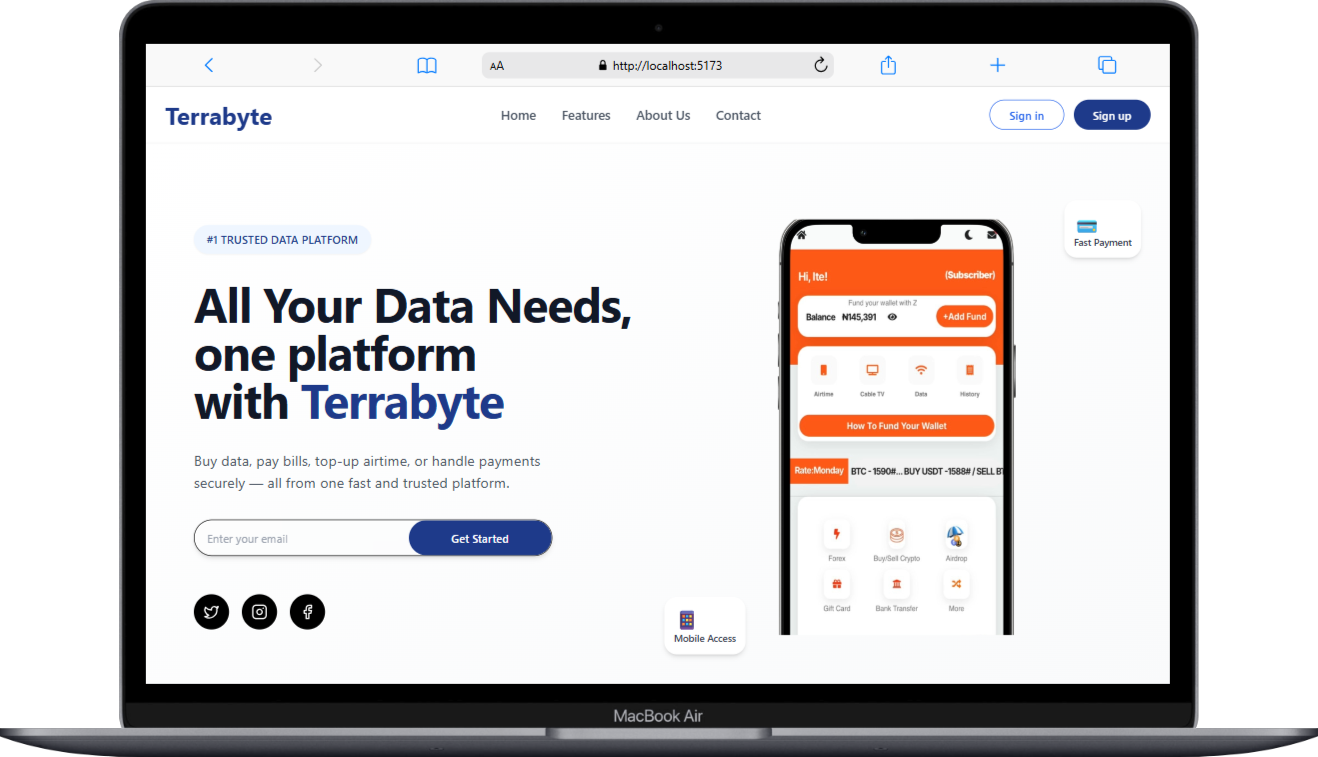
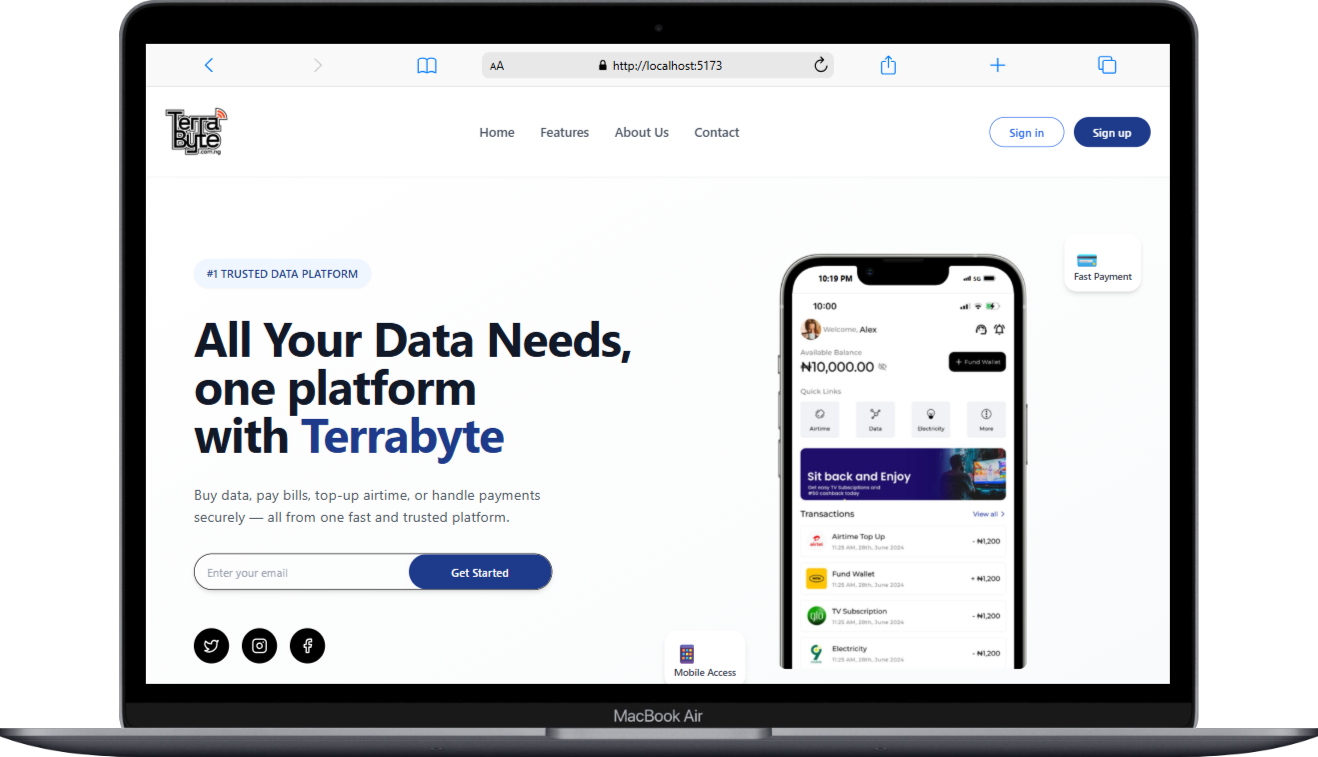
contact section updated

diff --git a/src/Components/Features.tsx b/src/Components/Features.tsx
@@ -1,4 +1,13 @@
-import { ShieldCheck, Clock3, Zap, Wifi, Tv2, Smartphone, Contact, UserCheck } from "lucide-react";
+import {
+  ShieldCheck,
+  Clock3,
+  Zap,
+  Wifi,
+  Tv2,
+  Smartphone,
+  Contact,
+  UserCheck,
+} from "lucide-react";
 import { motion } from "framer-motion";
 
 export default function Features() {
@@ -13,10 +22,12 @@ export default function Features() {
           className="text-center"
         >
           <h2 className="text-4xl md:text-5xl font-semibold text-gray-900 leading-snug">
-            Trusted Data Platform for <span className="text-blue-900">Users & Resellers</span>
+            Trusted Data Platform for{" "}
+            <span className="text-blue-900">Users & Resellers</span>
           </h2>
           <p className="mt-4 text-gray-600 max-w-2xl mx-auto">
-            Our mission is to simplify your everyday bills — securely, fast, and without stress.
+            Our mission is to simplify your everyday bills — securely, fast, and
+            without stress.
           </p>
         </motion.div>
 
@@ -28,12 +39,38 @@ export default function Features() {
           className="grid md:grid-cols-3 gap-8"
         >
           {[
-            { icon: <Wifi />, label: "Data Subscription" },
-            { icon: <Tv2 />, label: "Cable TV Payment" },
-            { icon: <Zap />, label: "Electricity Bills" },
-            { icon: <Smartphone />, label: "Airtime Top-up" },
-            { icon: <UserCheck />, label: "Exam Scratch Cards" },
-            { icon: <Contact />, label: "Instant Customer Support" },
+            {
+              icon: <Wifi />,
+              label: "Data Subscription",
+              description:
+                "Affordable data plans for all networks at lightning speed",
+            },
+            {
+              icon: <Tv2 />,
+              label: "Cable TV Payment",
+              description: "Recharge your GOtv, DStv, or Startimes instantly",
+            },
+            {
+              icon: <Zap />,
+              label: "Electricity Bills",
+              description:
+                "Pay PHCN, IKEDC, and more with instant confirmation",
+            },
+            {
+              icon: <Smartphone />,
+              label: "Airtime Top-up",
+              description: "Recharge any number nationwide — anytime, anywhere",
+            },
+            {
+              icon: <UserCheck />,
+              label: "Exam Scratch Cards",
+              description: "Buy WAEC, NECO, and JAMB cards with ease",
+            },
+            {
+              icon: <Contact />,
+              label: "Instant Customer Support",
+              description: "Get real-time assistance via chat, call, or email",
+            },
           ].map((item, index) => (
             <div
               key={index}
@@ -44,7 +81,7 @@ export default function Features() {
               </div>
               <div>
                 <h4 className="font-semibold text-gray-800">{item.label}</h4>
-                <p className="text-sm text-gray-500 mt-1">Fast, secure & available 24/7</p>
+                <p className="text-sm text-gray-500 mt-1">{item.description}</p>
               </div>
             </div>
           ))}
@@ -56,7 +93,8 @@ export default function Features() {
             <ShieldCheck className="w-6 h-6 text-blue-800 mb-3" />
             <h5 className="font-semibold text-gray-900 mb-2">Privacy First</h5>
             <p className="text-sm text-gray-600">
-              We don’t store your personal details unless you ask us to. Your privacy stays intact.
+              We don’t store your personal details unless you ask us to. Your
+              privacy stays intact.
             </p>
           </div>
 
@@ -64,7 +102,8 @@ export default function Features() {
             <Clock3 className="w-6 h-6 text-green-700 mb-3" />
             <h5 className="font-semibold text-gray-900 mb-2">We’re Fast</h5>
             <p className="text-sm text-gray-600">
-              Speed matters. Enjoy near-instant transactions for all your services.
+              Speed matters. Enjoy near-instant transactions for all your
+              services.
             </p>
           </div>
 
@@ -72,7 +111,8 @@ export default function Features() {
             <Contact className="w-6 h-6 text-yellow-700 mb-3" />
             <h5 className="font-semibold text-gray-900 mb-2">Quick Support</h5>
             <p className="text-sm text-gray-600">
-              Our support team is always online to respond, resolve, and guide you.
+              Our support team is always online to respond, resolve, and guide
+              you.
             </p>
           </div>
         </div>
@@ -85,7 +125,8 @@ export default function Features() {
           className="text-center pt-10"
         >
           <p className="text-gray-600 text-lg">
-            Enjoy these benefits and more — <span className="text-blue-900 font-semibold">sign up today</span>
+            Enjoy these benefits and more —{" "}
+            <span className="text-blue-900 font-semibold">sign up today</span>
           </p>
         </motion.div>
       </div>

diff --git a/src/Components/ContactUs.tsx b/src/Components/ContactUs.tsx
@@ -10,7 +10,8 @@ export default function ContactSection() {
             Contact Us
           </h2>
           <p className="text-gray-600 text-base mb-10">
-            We'd love to hear from you. Whether it’s a question, suggestion, or support — reach out and our team will respond quickly.
+            We'd love to hear from you. Whether it’s a question, suggestion, or
+            support — reach out and our team will respond quickly.
           </p>
 
           <div className="space-y-6">
@@ -34,7 +35,7 @@ export default function ContactSection() {
               <Phone className="text-blue-900 w-6 h-6 mt-1" />
               <div>
                 <h4 className="font-semibold text-gray-800">Call Us</h4>
-                <p className="text-sm text-gray-600">+234 705 322 2624</p>
+                <p className="text-sm text-gray-600">+234 7049780419</p>
               </div>
             </div>
           </div>
@@ -43,7 +44,9 @@ export default function ContactSection() {
         {/* Right: Contact Form */}
         <div className="w-full flex justify-center">
           <div className="w-full max-w-md rounded-2xl bg-blue-50 p-6 sm:p-8">
-            <h3 className="text-xl font-semibold text-blue-900 mb-4">Send us a Message</h3>
+            <h3 className="text-xl font-semibold text-blue-900 mb-4">
+              Send us a Message
+            </h3>
             <form className="space-y-4">
               <input
                 type="text"
@@ -73,4 +76,3 @@ export default function ContactSection() {
     </section>
   );
 }
-

diff --git a/src/Components/OurApp.tsx b/src/Components/OurApp.tsx
@@ -1,6 +1,7 @@
 import { ShieldCheck, Clock3, Contact, } from "lucide-react";
 import { motion } from "framer-motion";
 import Terrabyte from '../assets/terrabyte.jpg'
+import Airtime from '../assets/airtime.jpg'
 
 export default function AboutUsSection() {
   return (
@@ -76,7 +77,7 @@ export default function AboutUsSection() {
     className="absolute right-[-60px] bottom-[-10px] z-0"
   >
     <div className="w-48 h-[380px] rounded-[1.8rem] overflow-hidden">
-      <img src={Terrabyte} alt="Phone Mockup" className="w-full h-full object-cover" />
+      <img src={Airtime} alt="Phone Mockup" className="w-full h-full object-cover" />
     </div>
   </motion.div>
 

diff --git a/src/Components/Action.tsx b/src/Components/Action.tsx
@@ -1,5 +1,5 @@
 import React from 'react';
-import Mac from '../assets/Mac2.png'
+import Mac from '../assets/Mac.png'
 
 const Action: React.FC = () => {
   return (
